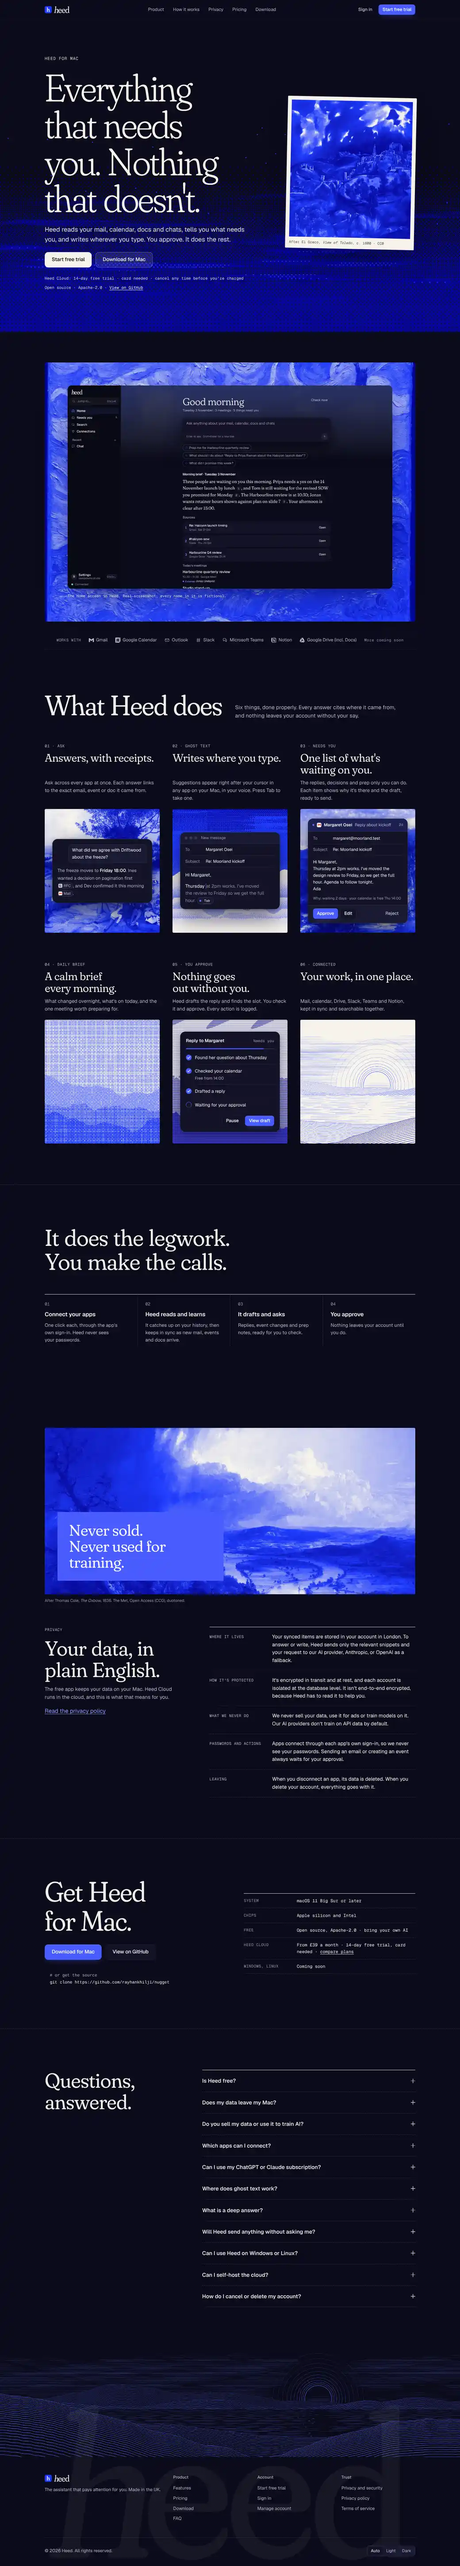
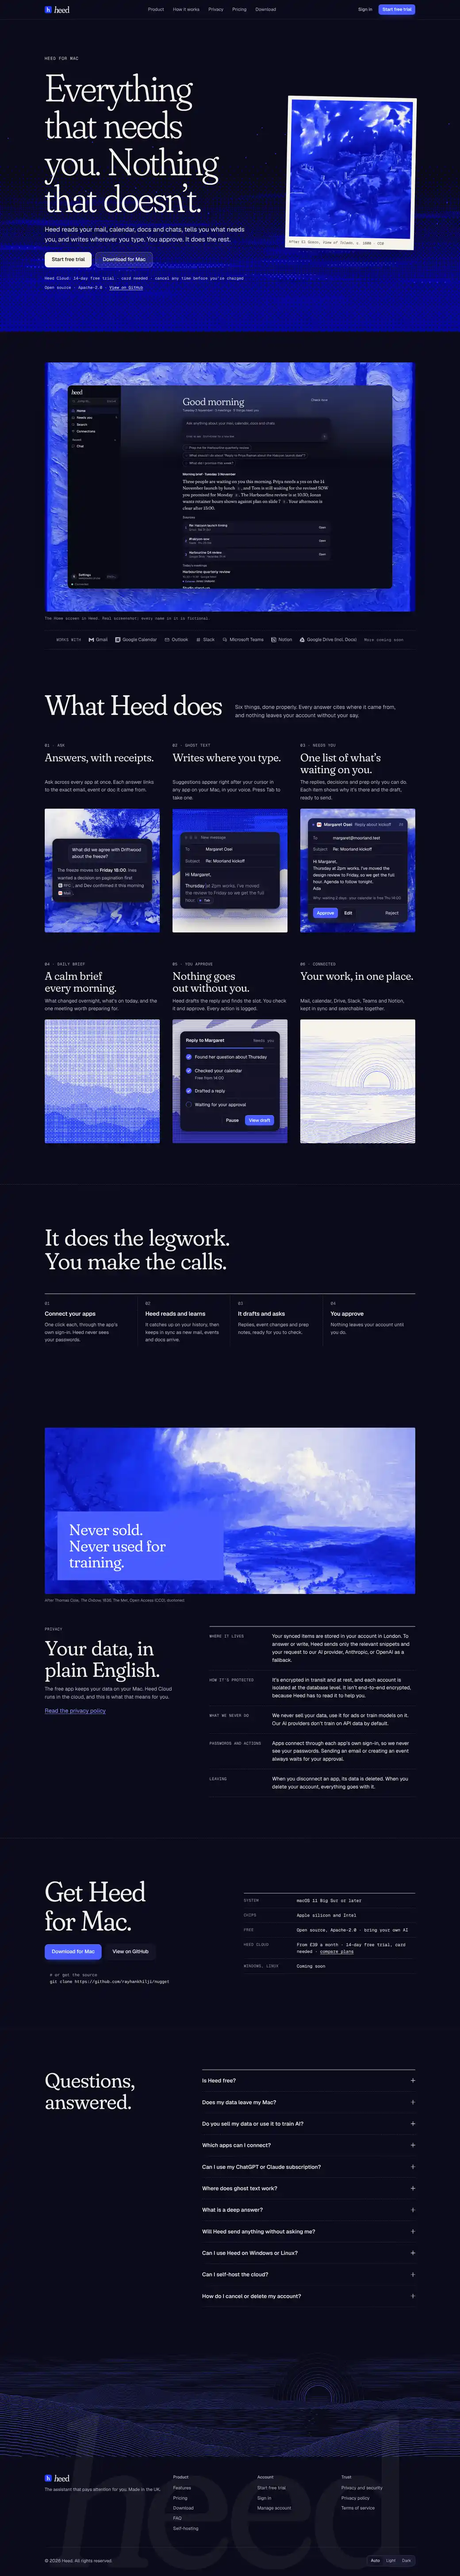
site: typographic quotes everywhere; opaque mobile screenshot with the caption below it
Typographic quotes (from the lead's review of the OG cards):
- src/lib/smartquotes.mjs turns ' into ’ and ‘ ’, and " into “ ”.
- integrations/smartquotes.mjs applies it to the text of every built
  page after the build. Script, style, pre, code and kbd blocks are set
  aside first, because inline scripts contain "<" and code must keep its
  quotes.
- The head (title, description, image alt), the social-card lines and
  the FAQ JSON-LD use it too. Client-side status messages are written
  with ’ in source.
- The smoke test checks visible text on four pages for straight
  apostrophes, and the bare test expects "isn’t".

Mobile screenshot (from the review of home-mobile-light at 420):
- The cropped screenshot is now fully opaque, with a crisp edge and a
  soft shadow. The wide mask fade that let the painting show through the
  UI is replaced by a 28px gradient strip on the right edge, tinted for
  light and dark.
- The caption sits below the painting frame in mono quiet ink, not on
  the image. Checked in both themes.

Claude-Session: https://claude.ai/code/session_01CTjRSsUWR7pbEgntwgYYWx

diff --git a/site/src/lib/cloud.ts b/site/src/lib/cloud.ts
@@ -12,7 +12,7 @@ export class CloudError extends Error {
 
 /** Calls the Heed cloud API (crates/nugget-cloud) as the signed-in user. */
 export async function cloud<T>(path: string, token: string, init: { method: string; body?: unknown }): Promise<T> {
-  if (!config.cloudUrl) throw new CloudError(0, "not_configured", "The Heed cloud URL isn't configured for this site.");
+  if (!config.cloudUrl) throw new CloudError(0, "not_configured", "The Heed cloud URL isn’t configured for this site.");
   let res: Response;
   try {
     res = await fetch(`${config.cloudUrl}${path}`, {
@@ -24,7 +24,7 @@ export async function cloud<T>(path: string, token: string, init: { method: stri
       ...(init.body === undefined ? {} : { body: JSON.stringify(init.body) }),
     });
   } catch {
-    throw new CloudError(0, "network", "We couldn't reach Heed. Check your connection and try again.");
+    throw new CloudError(0, "network", "We couldn’t reach Heed. Check your connection and try again.");
   }
   if (res.status === 204) return undefined as T;
   const data = (await res.json().catch(() => ({}))) as { error?: string; message?: string };

diff --git a/site/src/pages/og/[slug].png.ts b/site/src/pages/og/[slug].png.ts
@@ -9,6 +9,7 @@ import { join } from "node:path";
 import satori from "satori";
 import { Resvg } from "@resvg/resvg-js";
 import { OG_PAGES } from "../../lib/og";
+import { smart } from "../../lib/smartquotes.mjs";
 
 // Resolved from the project root: the build runs in site/ (also on Vercel, with Root Directory = site).
 const here = (p: string) => join(process.cwd(), p);
@@ -45,7 +46,7 @@ export const GET: APIRoute = async ({ params }) => {
           h(
             "div",
             { marginTop: 16, fontFamily: "Fraunces", fontSize: 70, lineHeight: 1.02, letterSpacing: -2, color: "#F6F3EC", maxWidth: 1000 },
-            page.line,
+            smart(page.line),
           ),
         ],
       ),

diff --git a/site/README.md b/site/README.md
@@ -257,6 +257,12 @@ dithered sky, with the wordmark. They are rendered once at build time by
 `src/pages/og/[slug].png.ts`, using satori and resvg-js with the static TTF instances in `src/og/`.
 The lines live in `src/lib/og.ts`. `site.webmanifest` lists the app icons.
 
+**Typography:** copy uses typographic quotes (’ ‘ ’ “ ”). `integrations/smartquotes.mjs` rewrites the
+text of every built page after the build, leaving code, scripts and attributes alone.
+`src/lib/smartquotes.mjs` handles the head, the social cards and the FAQ structured data, and the
+client-side messages are written with ’ in source. The smoke test fails on straight apostrophes in
+visible text.
+
 **Performance:**
 - CSS background art is lazy: `[data-bg]` elements apply their `--bg-img` only when they come within
   200px of the viewport.
